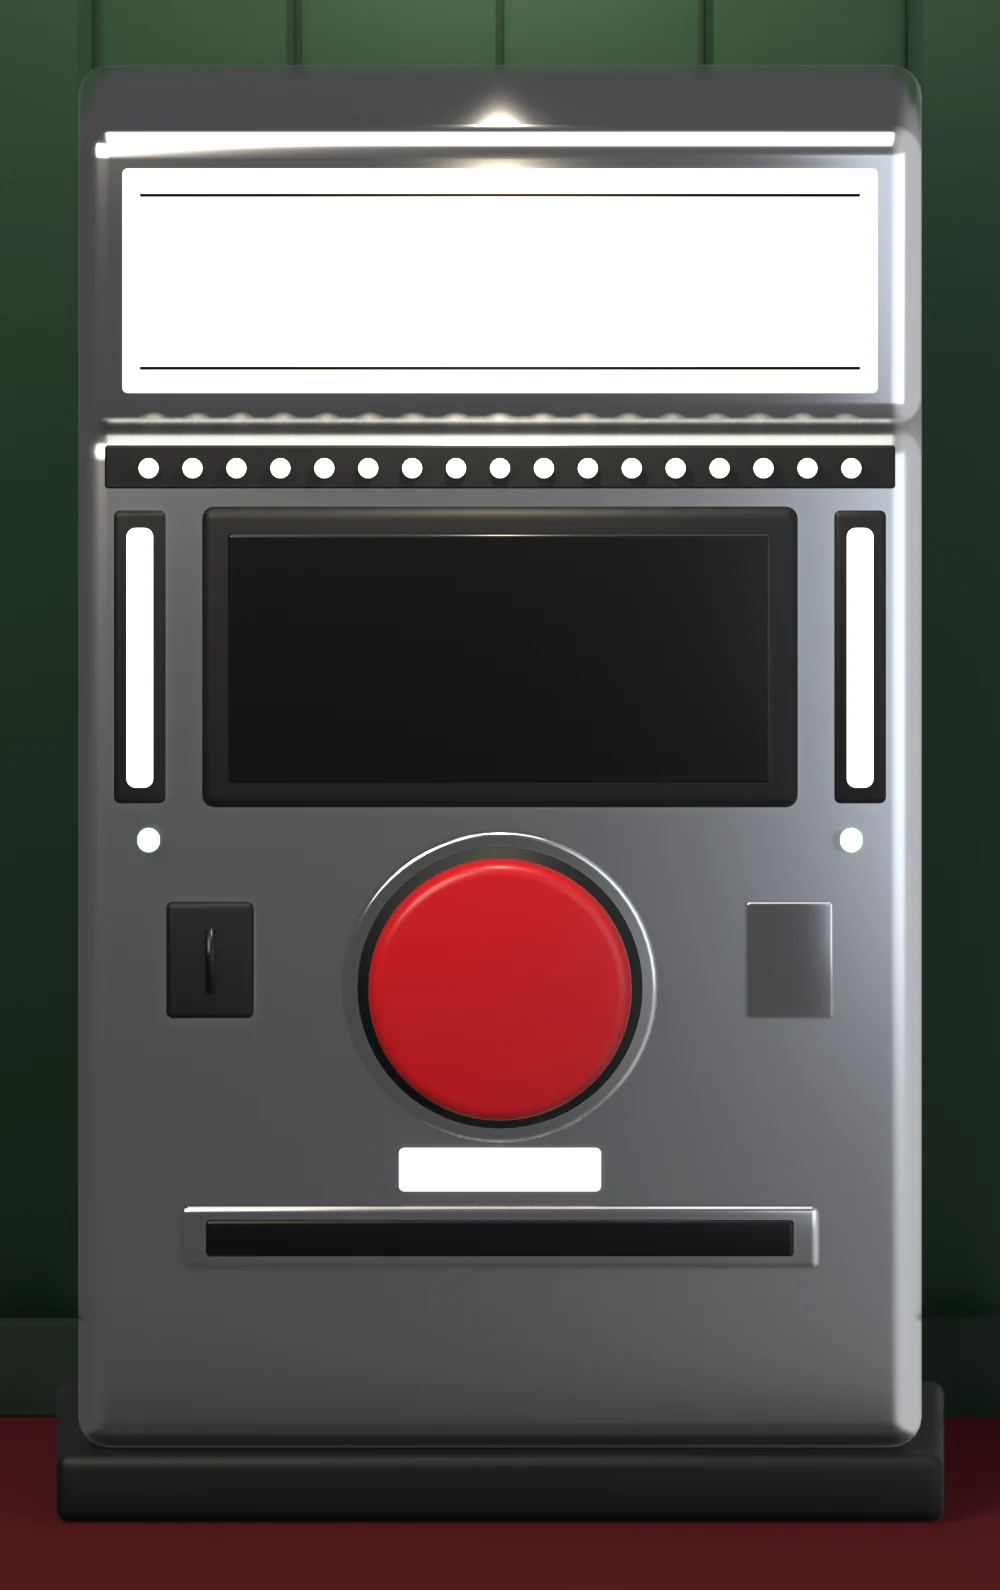
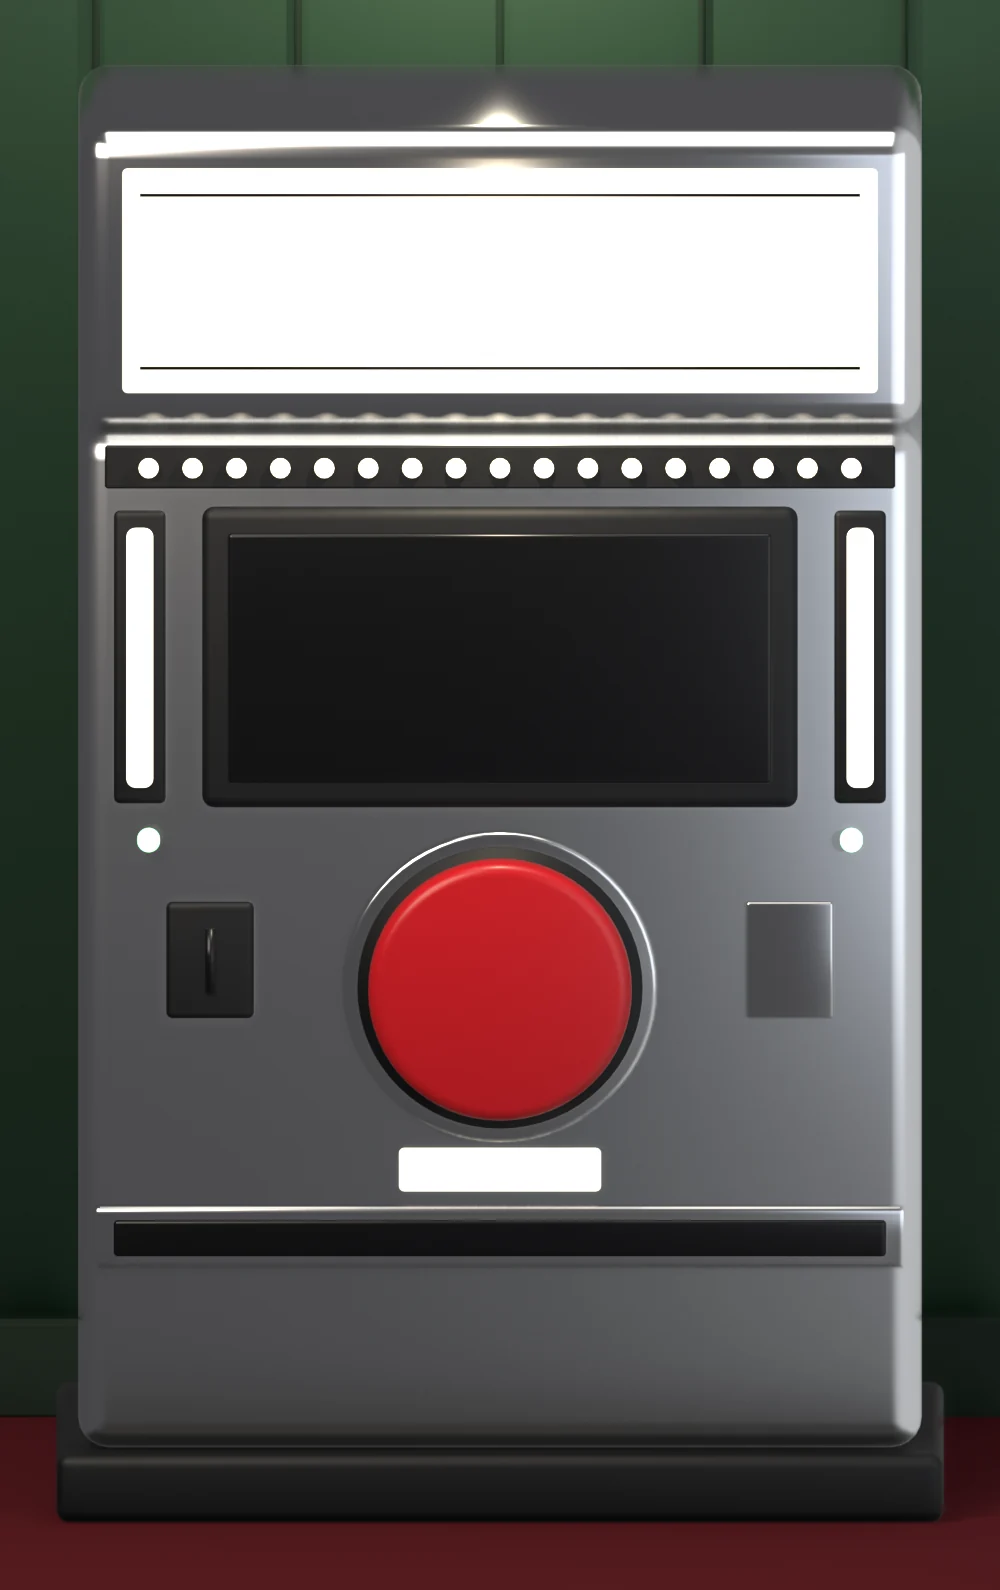
v0.11.4: one full Blender kiosk for home and print pages (wide ticket slot)
Claude-Session: https://claude.ai/code/session_01SEy7FHn4dwL7YFwRGJAaFz

Changed region(s): [[0.775, 0.7396, 0.899, 0.8013], [0.093, 0.7396, 0.217, 0.8013]]

diff --git a/index.html b/index.html
@@ -1199,7 +1199,7 @@ main{padding-bottom:calc(104px + var(--safe-b))}
 .kx{position:relative;z-index:1;isolation:isolate;display:block;width:calc(100% + 36px);max-width:430px;margin:-22px -18px 0;aspect-ratio:1000/1590;overflow:hidden;border-radius:0 0 26px 26px;font-size:calc(min(100vw,430px)/390);background:#101A13}
 @media (min-width:467px){.kx{margin-left:auto;margin-right:auto}}
 .kx:after{content:"";position:absolute;inset:0;background:linear-gradient(180deg,#0B0B0C 1%,rgba(11,11,12,0) 8%,rgba(11,11,12,0) 90%,rgba(11,11,12,.45));pointer-events:none;z-index:4}
-.kxbg,.kxlip{position:absolute;inset:0;width:100%;height:100%;display:block}.kxlip{clip-path:inset(75.84% 17.9% 22.14% 17.9%);z-index:2;pointer-events:none}
+.kxbg,.kxlip{position:absolute;inset:0;width:100%;height:100%;display:block}.kxlip{clip-path:inset(75.84% 9.1% 22.14% 9.1%);z-index:2;pointer-events:none}
 .kxo{position:absolute;display:flex;flex-direction:column;align-items:center;justify-content:center;text-align:center;z-index:1}
 .kxsign{left:12.23%;top:10.64%;width:75.54%;height:14.14%;color:#141414;font-family:'Unbounded',var(--display)}.kxsign b{font-weight:800;font-size:27em;letter-spacing:.3px;line-height:1.05}.kxsign span{font-weight:600;font-size:8.5em;letter-spacing:.3em;margin-top:.7em}
 .kxscr{left:22.77%;top:33.58%;width:54.46%;height:15.77%;align-items:stretch;justify-content:space-between;text-align:left;padding:10em 13em;font-family:var(--dot);font-weight:900;color:#FFB547}
@@ -1209,7 +1209,7 @@ main{padding-bottom:calc(104px + var(--safe-b))}
 .kxst:active{background:rgba(0,0,0,.18)}.kxst:focus-visible{outline:3px solid #FFB547;outline-offset:3px}
 .kxtg{left:39.9%;top:72.28%;width:20.2%;height:2.72%;font-family:'Unbounded',var(--display);font-weight:700;font-size:8em;letter-spacing:.3em;color:#141414}
 .kxlb{font-family:var(--dot);font-weight:900;font-size:6em;line-height:1.3;white-space:nowrap;color:#0E0F10}.kxlb.c{left:14%;top:64.53%;width:14%;height:3.14%}.kxlb.p{left:74.6%;top:56.77%;width:8.78%;height:7.35%}
-.kxtk{position:absolute;left:23%;width:54%;top:77.74%;height:11.9%;z-index:1;overflow:hidden}
+.kxtk{position:absolute;left:13.5%;width:73%;top:77.74%;height:11.9%;z-index:1;overflow:hidden}
 .kxtk div{height:100%;border-radius:0 0 8px 8px;background:#F2EEE8;color:#B3121B;font-family:var(--dot);font-weight:900;font-size:10.5em;letter-spacing:.2em;display:flex;align-items:flex-end;justify-content:center;padding-bottom:1.2em;position:relative;box-shadow:inset 0 14px 14px -8px rgba(0,0,0,.45)}
 .kxtk div:before{content:"";position:absolute;left:1.1em;right:1.1em;top:45%;border-top:1.5px dashed rgba(179,18,27,.45)}
 @media (prefers-reduced-motion:no-preference){.kxtk div{animation:kxpk 3.2s ease-in-out infinite}}@keyframes kxpk{0%,100%{transform:translateY(-10%)}50%{transform:translateY(0)}}.reduce .kxtk div,.reduce .kxscr .cur{animation:none}
@@ -1257,6 +1257,13 @@ main{padding-bottom:calc(104px + var(--safe-b))}
 
 .stmBoothIn{padding:0}.stmBooth{top:-34px}.stmWrap{top:227px}.stmGlow{background:none}.stm .kp{-webkit-mask-image:linear-gradient(90deg,transparent,#000 9%,#000 91%,transparent);mask-image:linear-gradient(90deg,transparent,#000 9%,#000 91%,transparent)}
 .obBIn{padding:0;transform:scale(.6)}
+
+/* ===== v0.11.4 one kiosk for home and print ===== */
+.kp.kpf{aspect-ratio:1000/1590}.kp.kpf:after{background:linear-gradient(180deg,#0B0B0C 1%,rgba(11,11,12,0) 8%,rgba(11,11,12,0) 90%,rgba(11,11,12,.45))}
+.kpf .kps{left:12.23%;top:10.64%;width:75.54%;height:14.14%}.kpf .kplcd{left:22.77%;top:33.58%;width:54.46%;height:15.77%}
+.kpst b{font-size:11.5em}
+.kplip.kpf{aspect-ratio:1000/1590;clip-path:inset(75.84% 9.1% 22.14% 9.1%)}
+.printWrap.kpw.kpfw .slotWin.full{margin-top:calc(var(--kw)*-.352)}
 </style>
 </head>
 <body>
@@ -3568,10 +3575,11 @@ function viewPrint(){
   var dd = parseISO(t.date);
   V.innerHTML =
     '<div class="top hdr onk">'+logoHTML(22)+'<span style="display:flex;gap:8px"><button class="icon" data-act="pSound" aria-label="'+(SFX.on?'ปิดเสียง':'เปิดเสียง')+'" aria-pressed="'+SFX.on+'">'+(SFX.on?ICON_SND_ON:ICON_SND_OFF)+'</button><a class="icon" href="#home" aria-label="ปิด กลับหน้าแรก">'+ICON_X+'</a></span></div>'+
-    '<section class="printWrap kpw" id="pw" aria-label="ตั๋วกำลังพิมพ์"><div class="kp"><img class="kpbg" src="room/kiosk-print.webp" alt="" width="1000" height="1240">'+
+    '<section class="printWrap kpw kpfw" id="pw" aria-label="ตั๋วกำลังพิมพ์"><div class="kp kpf"><img class="kpbg" src="room/kiosk.webp" alt="" width="1000" height="1590">'+
       '<div class="kxo kxsign kps" aria-hidden="true"><b>NOW PRINTING</b><span>YOUR TICKET IS ON THE WAY</span></div>'+
-      '<div class="kxo kxscr kplcd" role="status"><span class="l1"><span>PRINTING TICKET<span class="cur">_</span></span></span><b>'+ticketNo(t.no).replace(' ','')+'</b><span class="prog" aria-hidden="true"><i></i></span></div></div>'+
-    '<img class="kplip" src="room/kiosk-print.webp" alt="" aria-hidden="true">'+
+      '<div class="kxo kxscr kplcd" role="status"><span class="l1"><span>PRINTING TICKET<span class="cur">_</span></span></span><b>'+ticketNo(t.no).replace(' ','')+'</b><span class="prog" aria-hidden="true"><i></i></span></div>'+
+      '<div class="kxo kxst kpst" aria-hidden="true"><b>NOW</b><b>PRINTING</b></div><div class="kxo kxtg" aria-hidden="true">TICKETS</div><div class="kxo kxlb c" aria-hidden="true">INSERT<br>MEMORY</div><div class="kxo kxlb p" aria-hidden="true">TUVA CO<br>EST 2026</div></div>'+
+    '<img class="kplip kpf" src="room/kiosk.webp" alt="" aria-hidden="true">'+
     '<div class="slotWin full"><div class="in"><div class="emerge" id="out">'+ticketFront(t,false)+'</div></div>'+
       printStampSVG(pad(dd.getDate())+'.'+pad(dd.getMonth()+1)+'.'+String(dd.getFullYear()+543).slice(2))+'</div>'+
     '<div id="printBtns" class="pbar" style="visibility:hidden"><button class="btn" data-act="save">ฉีกตั๋วเก็บเข้าคอลเลกชัน</button><a class="icon big" href="#new" aria-label="กลับไปแก้ไขข้อมูลตั๋ว">'+ICON_REDO+'</a></div></section>';
@@ -4354,7 +4362,7 @@ function viewMe(){
 }
 document.addEventListener('click', function(e){ var b = e.target.closest('[data-x^="rm"]'); if (b) rmAct(b.getAttribute('data-x'), b); });
 
-var APP_VER = '0.11.3';
+var APP_VER = '0.11.4';
 var WHATS_NEW = [['NEW TICKET BOOTH','ตู้กดตั๋วโฉมใหม่ ตู้โลหะเงินทั้งหน้าแรก หน้าพิมพ์ตั๋ว ตู้ตั๋ว ชั้นวาง และรูปแชร์','#C9CCD1'],['MY ROOM','หน้า ME มีห้องใต้หลังคา เลือกสีห้อง สีแสง และใส่โปสเตอร์ในกรอบได้','#FFB547'],['ROOM ITEMS','ดูครบ 2 เรื่องได้ของชิ้นแรก จากนั้นทุก 2-3 เรื่องได้ของแต่งห้องเพิ่ม','#E0262F'],['NEW CINEMA ID','บัตรใหม่ มีฉายาตามแนวหนังที่ดูมากที่สุด แชร์ห้อง + บัตรลงสตอรี่ได้','#C3A6F5'],['COMPACT VENDING','ตู้ตั๋วใบเล็กลง เห็นตั๋วได้มากขึ้นในจอเดียว','#FFB547'],['MISSED IT','Watchlist ติ๊กได้ว่าหนังออกโรงแล้ว พลาดดู','#E0262F'],['NEW GENRES','เพิ่มแนวหนัง THRILLER และ FANTASY (สีรุ้ง)','#C3A6F5'],['MOVING SHELF','ชั้นวางเลื่อนเอง ปัดแล้วหันปกหนัง และแชร์คอลเลกชันปีนี้ได้','#C5D46E']];
 var IG_URL = 'https://www.instagram.com/tuva.club/';
 function maybeWhatsNew(){

diff --git a/sw.js b/sw.js
@@ -1,5 +1,5 @@
 /* Memory Ticket Booth – offline cache. Network first for the app page, cache fallback. */
-var CACHE = 'mtb-v113a';
+var CACHE = 'mtb-v114a';
 var SHELL = ['./', './index.html', './manifest.webmanifest', './icon-180.png', './icon-192.png', './icon-512.png', './room/kiosk.webp', './room/kiosk-print.webp', './room/cab-top.webp', './room/cab-bot.webp', './room/cab-slim.webp'];
 self.addEventListener('install', function (e) {
   e.waitUntil(caches.open(CACHE).then(function (c) { return c.addAll(SHELL); }).then(function () { return self.skipWaiting(); }));
